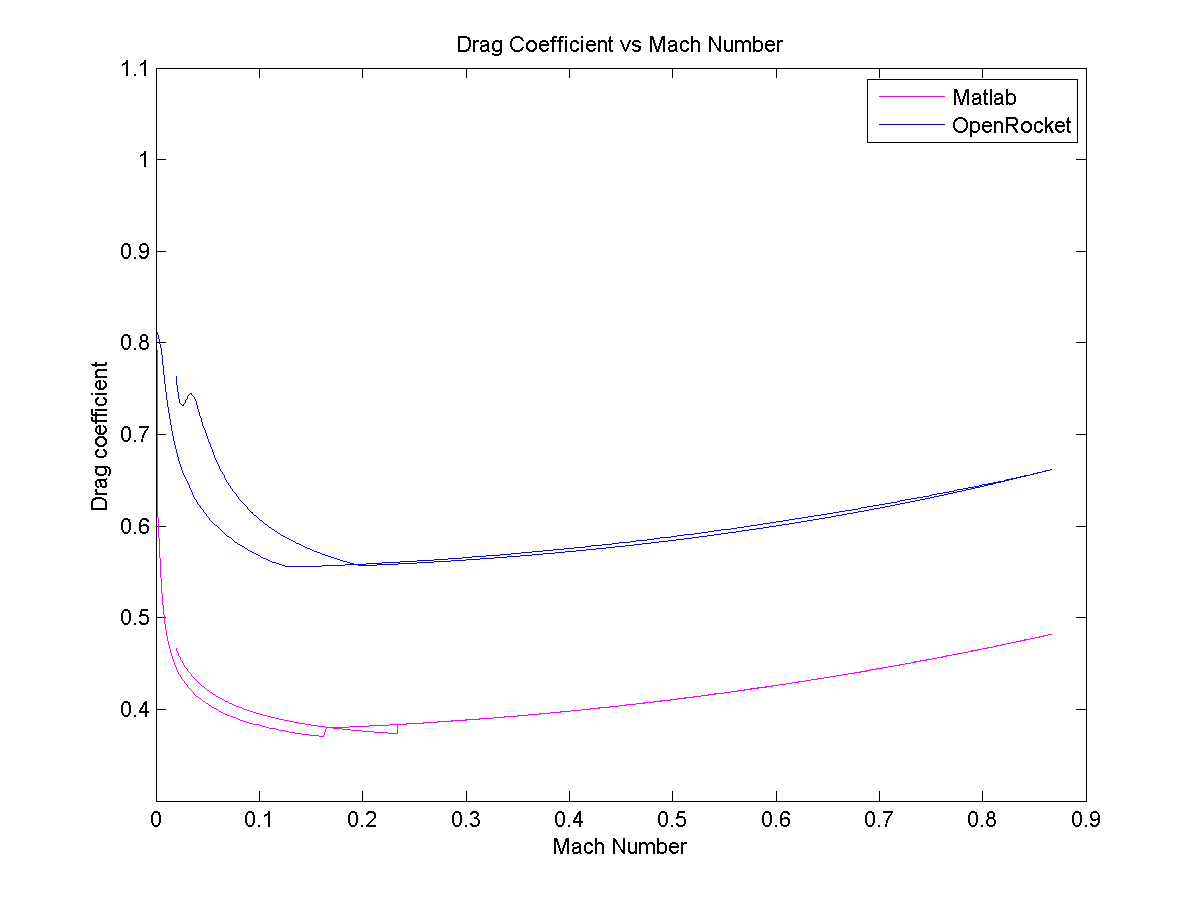
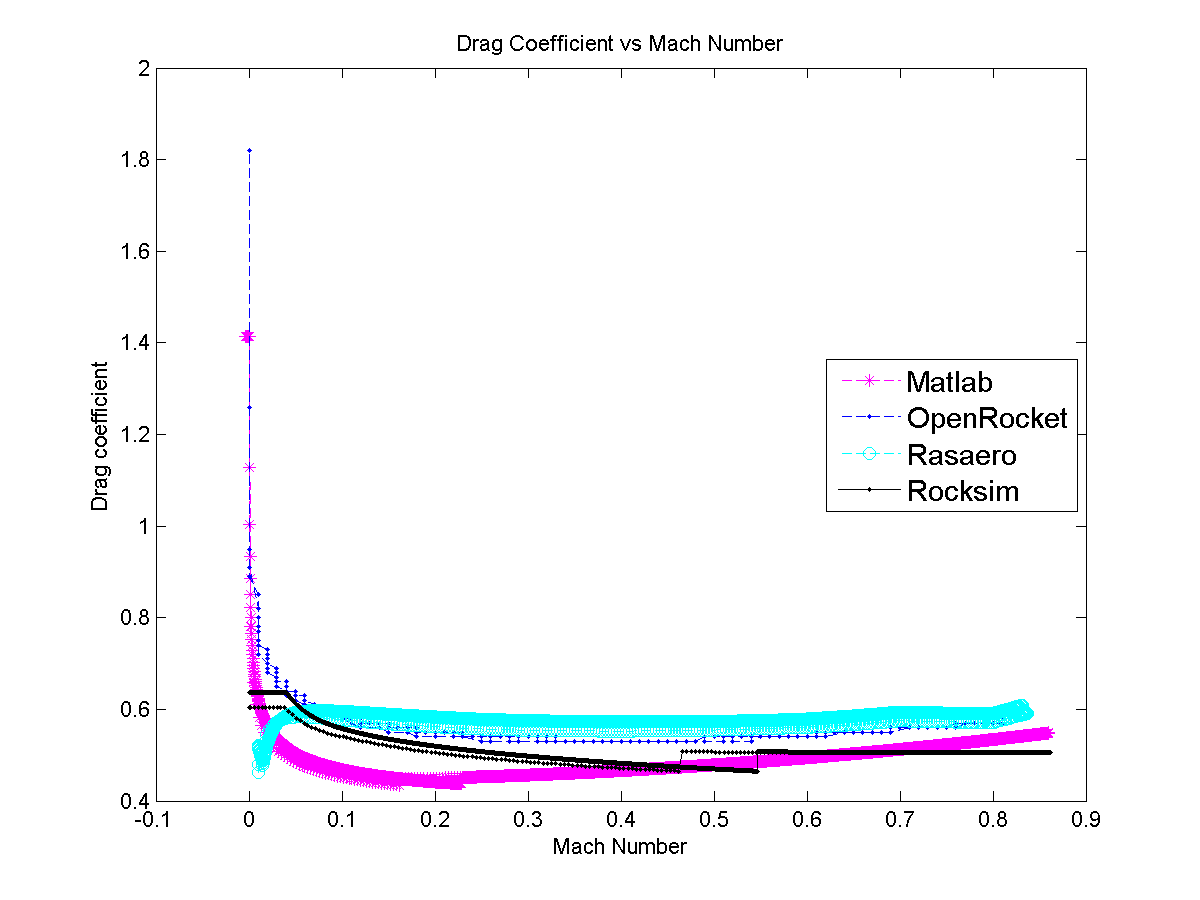
Fixed up all existing error plots to include OpenRocket, RASAero, and RockSim data. Exported plots to images and updated document. Did some research on launch conditions and prepared launch inputs.

diff --git a/functions/data/plotting/plot_error_mass_v_time.m b/functions/data/plotting/plot_error_mass_v_time.m
@@ -1,33 +1,87 @@
+lbf2newton = 4.4482216152605;
+ounce2kilogram = .02834952;
+
+%% Find value index of apogee for each source
+% OpenRocket
+indexmax_openrocket = find(max(openrocket_Altitude) == openrocket_Altitude)
+time_to_apogee_openrocket = openrocket_VarName1(indexmax_openrocket)
+openrocket_altitude_max = openrocket_Altitude(indexmax_openrocket);
+
+% RasAero
+indexmax_rasaero = find(max(rasaero_Altitudeft) == rasaero_Altitudeft)
+time_to_apogee_rasaero = rasaero_Timesec(indexmax_rasaero)
+rasaero_altitude_max = rasaero_Altitudeft(indexmax_rasaero)
+
+% RockSim
+indexmax_Rocksim = find(max(Rocksim_AltitudeFeet) == Rocksim_AltitudeFeet)
+time_to_apogee_Rocksim = Rocksim_Time(indexmax_Rocksim)
+Rocksim_altitude_max = Rocksim_AltitudeFeet(indexmax_Rocksim)
+
 %% Plot drag coef
 subplot(2,1,1)
-plot(tout, thrust, 'm')
-hold on
-plot(tout, openrocket_thrust(1:arraysize), 'b')
+matlab_plot_1 = plot(tout, thrust, 'm--*')
+hold on;
+openrocket_plot_1 = plot(...
+    openrocket_VarName1(1:indexmax_openrocket), ...
+    openrocket_Thrust(1:indexmax_openrocket), ...
+    'b--.'...
+);
+rasaero_plot_1 = plot( ...
+    rasaero_Timesec(1:indexmax_rasaero), ...
+    rasaero_Thrustlb(1:indexmax_rasaero)*lbf2newton, ...
+    'c--o' ...
+);
+rocksim_plot_1 = plot( ...
+    Rocksim_Time(1:indexmax_Rocksim), ...
+    Rocksim_yThrustN(1:indexmax_Rocksim), ...
+    'k- .' ...
+);
 hold off
+
+h_legend = legend(...
+    [matlab_plot_1, openrocket_plot_1, rasaero_plot_1, rocksim_plot_1],...
+    'Matlab','OpenRocket','Rasaero','Rocksim', ...
+    'location', 'northeast' ...
+);
+set(h_legend,'FontSize',14);
 
 clear title xlabel ylabel
 title('Thrust vs Time');
 xlabel('Thrust (N)');
 ylabel('Time (s)');
-legend('Matlab','OpenRocket')
 
 subplot(2,1,2)
-plot(tout, mass, 'm')
-hold on
-plot(tout, openrocket_mass(1:arraysize), 'b')
+matlab_plot_2 = plot(tout, mass, 'm--*')
+hold on;
+openrocket_plot_2 = plot(...
+    openrocket_VarName1(1:indexmax_openrocket), ...
+    openrocket_Mass(1:indexmax_openrocket)/1000, ...
+    'b--.'...
+);
+
+rocksim_plot_2 = plot( ...
+    Rocksim_Time(1:indexmax_Rocksim), ...
+    Rocksim_MassOunces(1:indexmax_Rocksim)*ounce2kilogram, ...
+    'k- .' ...
+);
 hold off
+
+h_legend = legend(...
+    [matlab_plot_2, openrocket_plot_2, rocksim_plot_2],...
+    'Matlab','OpenRocket','Rocksim', ...
+    'location', 'northeast' ...
+);
+set(h_legend,'FontSize',14);
 
 clear title xlabel ylabel
 title('Mass vs Time');
 xlabel('Mass (kg)');
 ylabel('Time (s)');
-legend('Matlab','OpenRocket')
-
 
 %% Conditionally save the plot
 if exist('saveplots')
     if saveplots
-        saveas(gcf, '../documentation/images/plots/error_mass_v_time_plot.png');
+        saveas(gcf, 'documentation/images/plots/error_mass_v_time_plot.png');
         export_fig error_drag_plot.png -m2
     end
 end

diff --git a/functions/data/plotting/plot_error_mach_v_time.m b/functions/data/plotting/plot_error_mach_v_time.m
@@ -1,38 +1,32 @@
-% Define globals
+%% Define globals
 upperbound = 0.9
 lowerbound = 0.8;
 
-
 %% Find value index of apogee for each source
 % OpenRocket
-indexmax_matlab = find(max(mach_number) == mach_number)
+indexmax_matlab = find(max(altitude) == altitude)
 time_to_apogee_matlab = tout(indexmax_matlab)
-matlab_mach_max = mach_number(indexmax_openrocket);
+matlab_mach_max = altitude(indexmax_openrocket);
 
 % OpenRocket
-indexmax_openrocket = find(max(openrocket_Machnumber) == openrocket_Machnumber)
+indexmax_openrocket = find(max(openrocket_Altitude) == openrocket_Altitude)
 time_to_apogee_openrocket = openrocket_VarName1(indexmax_openrocket)
-openrocket_mach_max = openrocket_Machnumber(indexmax_openrocket);
+openrocket_altitude_max = openrocket_Altitude(indexmax_openrocket);
 
 % RasAero
-indexmax_rasaero = find(max(rasaero_Mach) == rasaero_Mach)
+indexmax_rasaero = find(max(rasaero_Altitudeft) == rasaero_Altitudeft)
 time_to_apogee_rasaero = rasaero_Timesec(indexmax_rasaero)
-rasaero_mach_max = rasaero_Mach(indexmax_rasaero)
+rasaero_altitude_max = rasaero_Altitudeft(indexmax_rasaero)
 
 % RockSim
-indexmax_Rocksim = find(max(Rocksim_Machnumber) == Rocksim_Machnumber)
+indexmax_Rocksim = find(max(Rocksim_AltitudeFeet) == Rocksim_AltitudeFeet)
 time_to_apogee_Rocksim = Rocksim_Time(indexmax_Rocksim)
-Rocksim_mach_max = Rocksim_Machnumber(indexmax_Rocksim)
+Rocksim_altitude_max = Rocksim_AltitudeFeet(indexmax_Rocksim)
 
 %% Define shaded region for competition bounds
 x1 = Rocksim_Time(1:indexmax_Rocksim);
 y1 = linspace(upperbound,upperbound,size(Rocksim_Time(1:indexmax_Rocksim),1));
 y2 = linspace(lowerbound,lowerbound,size(Rocksim_Time(1:indexmax_Rocksim),1));
-
-clear title xlabel ylabel
-title('Mach Number vs Time');
-xlabel('Time (s)');
-ylabel('Mach Number');
 
 %% Plot altitude error
 ha = shadedplot(x1, y1, y2, [0.7, 1, 0.7], 'r'); %first area is red
@@ -65,10 +59,16 @@ h_legend = legend(...
 );
 set(h_legend,'FontSize',14);
 
+%% Plot details
+clear title xlabel ylabel
+title('Mach Number vs Time');
+xlabel('Time (s)');
+ylabel('Mach Number');
+
 %% save plot
 if exist('saveplots')
     if saveplots
-        saveas(gcf, '../documentation/images/plots/error_mach_plot.png');
+        saveas(gcf, 'documentation/images/plots/error_mach_plot.png');
         export_fig error_mach_plot.png -m2
     end
 end

diff --git a/functions/data/plotting/plot_error_dragforce_v_mach.m b/functions/data/plotting/plot_error_dragforce_v_mach.m
@@ -1,3 +1,5 @@
+lbf2newton = 4.4482216152605;
+
 %% Find value index of apogee for each source
 % OpenRocket
 indexmax_openrocket = find(max(openrocket_Altitude) == openrocket_Altitude)
@@ -15,21 +17,21 @@ time_to_apogee_Rocksim = Rocksim_Time(indexmax_Rocksim)
 Rocksim_altitude_max = Rocksim_AltitudeFeet(indexmax_Rocksim)
 
 %% Plot drag coef v mach number
-matlab_plot = plot(mach_number, drag_coefficient, 'm--*')
+matlab_plot = plot(mach_number, drag_force, 'm--*')
 hold on
 openrocket_plot = plot(...
     openrocket_Machnumber(1:indexmax_openrocket), ...
-    openrocket_Dragcoefficient(1:indexmax_openrocket), ...
+    openrocket_Dragforce(1:indexmax_openrocket), ...
     'b--.'...
 );
 rasaero_plot = plot( ...
     rasaero_Mach(1:indexmax_rasaero), ...
-    rasaero_CD(1:indexmax_rasaero), ...
+    rasaero_Draglb(1:indexmax_rasaero)*lbf2newton, ...
     'c--o' ...
 );
 rocksim_plot = plot( ...
     Rocksim_Machnumber(1:indexmax_Rocksim), ...
-    Rocksim_Cd(1:indexmax_Rocksim), ...
+    Rocksim_DragforceN(1:indexmax_Rocksim), ...
     'k- .' ...
 );
 hold off
@@ -37,20 +39,20 @@ hold off
 h_legend = legend(...
     [matlab_plot, openrocket_plot, rasaero_plot, rocksim_plot],...
     'Matlab','OpenRocket','Rasaero','Rocksim', ...
-    'location', 'east' ...
+    'location', 'southeast' ...
 );
 set(h_legend,'FontSize',14);
 
 %% Graph Details
 clear title xlabel ylabel
-title('Drag Coefficient vs Mach Number');
+title('Drag Force vs Mach Number');
 xlabel('Mach Number');
-ylabel('Drag coefficient');
+ylabel('Drag Force (N)');
 
 %% save plot
 if exist('saveplots')
     if saveplots
-        saveas(gcf, 'documentation/images/plots/error_dragcoef_v_mach_plot.png');
-        export_fig error_dragcoef_v_mach_plot.png -m2
+        saveas(gcf, 'documentation/images/plots/error_dragforce_plot.png');
+        export_fig error_dragforce_plot.png -m2
     end
 end

diff --git a/functions/data/plotting/plot_error_coeffrictiondrag_mach.m b/functions/data/plotting/plot_error_coeffrictiondrag_mach.m
@@ -1,8 +1,8 @@
 %% Plot drag coef
-plot(mach_number_trimmed, coef_drag_skin_friction, 'm')
+plot(mach_number, coef_drag_skin_friction, 'm--*')
 
 hold on
-plot(mach_number_trimmed, openrocket_drag_friction_coef(1:arraysize), 'b')
+plot(openrocket_Machnumber, openrocket_Frictiondragcoefficient, 'b--')
 hold off
 
 clear title xlabel ylabel
@@ -14,7 +14,7 @@ legend('Matlab','OpenRocket')
 %% Conditionally save the plot
 if exist('saveplots')
     if saveplots
-        saveas(gcf, '../documentation/images/plots/error_friction_drag_plot.png');
-        export_fig error_drag_plot.png -m2
+        saveas(gcf, 'documentation/images/plots/error_coeffriction_drag_plot.png');
+        export_fig error_coeffriction_drag_plot.png -m2
     end
 end

diff --git a/functions/data/plotting/plot_error_altitude_v_time.m b/functions/data/plotting/plot_error_altitude_v_time.m
@@ -70,7 +70,7 @@ ylabel('Altitude (m)');
 
 %% provide imperial units on right vertical axis
 ylimit = [0,12500/meter2feet]; % ylimits in meters
-n=9; % how many tickmarks
+n=11; % how many tickmarks
 ytic = linspace(ylimit(1),ylimit(2),n); 
 ax1 = gca;
 set(ax1,'ylim', ylimit, 'ytick', ytic);
@@ -86,7 +86,7 @@ ylabel('in feet');
 %% conditionally save the plot
 if exist('saveplots')
     if saveplots
-        saveas(gcf, '../documentation/images/plots/error_altitude_plot.png');
+        saveas(gcf, 'documentation/images/plots/error_altitude_plot.png');
         export_fig error_altitude_plot.png -m2
     end
 end

diff --git a/functions/data/import_arcturus_pressure_sensor.m b/functions/data/import_arcturus_pressure_sensor.m
@@ -1,8 +1,7 @@
 %% Import data from spreadsheet
 % Script for importing data from the following spreadsheet:
 %
-%    Workbook: C:\Users\scorpii\Documents\Space\Rocketry\Avionics\Arcturus
-%    Flight Analysis\Arcturus Flight Data\ArcturusFlightData.xlsx
+%    Workbook: ArcturusFlightData.xlsx
 %    Worksheet: CA BMP Sensor (PP)
 %
 % To extend the code for use with different selected data or a different

diff --git a/functions/data/plotting/plot_error_stability_margin.m b/functions/data/plotting/plot_error_stability_margin.m
@@ -68,7 +68,7 @@ ylabel('Calibers');
 %% conditionally save the plot
 if exist('saveplots')
     if saveplots
-        saveas(gcf, '../documentation/images/plots/error_stability_calibers_plot.png');
+        saveas(gcf, 'documentation/images/plots/error_stability_calibers_plot.png');
         export_fig error_altitude_plot.png -m2
     end
 end

diff --git a/functions/data/plotting/plot_error.m b/functions/data/plotting/plot_error.m
@@ -2,6 +2,6 @@ figure; plot_error_altitude_v_time;
 figure; plot_error_mach_v_time;
 figure; plot_error_stability_margin;
 figure; plot_error_coeffrictiondrag_mach;
-figure; plot_error_mass_v_time;
-figure; plot_error_drag_mach;
+figure; plot_error_dragforce_v_mach;
 figure; plot_error_dragcoef_v_mach;
+figure; plot_error_mass_v_time;

diff --git a/functions/data/plotting/plot_openrocket_validation.m b/functions/data/plotting/plot_openrocket_validation.m
@@ -55,7 +55,7 @@ if confirm('Plot error data?')
     figure;
     plot_error_mass_v_time;
     figure; 
-    plot_error_drag_mach;
+    plot_error_dragforce_v_mach;
     figure;
     plot_error_dragcoef_v_mach;
     figure;

diff --git a/documentation/simulation_results.md b/documentation/simulation_results.md
@@ -1,24 +1,85 @@
-# Simulation Results
+# Simulation Execution
 
 ## Simulation Configuration
 
-The following model was executed
+For all tests, the following conditions were used, based on historical data for June 25th, 2015 at 12:00PM (noon) near Green River, Utah [@forecastio].
+
+| Date       | Elevation             | Ground Pressure | Ground Temperature      | Wind Speed         |
+| ---        | ---                   | ---             | ---                     | ---                |
+| 2015/06/15 | 4,227.92 ft (1,289 m) | 101300 Pa       | 298.15 K (25 $^\circ$C) | 6 km/h (1.6 m/s)   |
+| 2014/06/15 | 4,227.92 ft (1,289 m) | 100700 Pa       | 296.15 K (23 $^\circ$C) | 20 km/h (5.56 m/s) |
+| 2013/06/15 | 4,227.92 ft (1,289 m) | 101000 Pa       | 299.15 K (26 $^\circ$C) | 10 km/h (2.78 m/s) |
+
+\captionof{table}{General Simulation Conditions}
+
+### Best Case
+
+The best case scenario is with no wind, and a 0$^\circ$ launch angle, and the lowest air pressure.
+
+| Wind Speed | Ground Pressure | Ground Temperature      | Launch Guide Angle |
+| ---        | ---             | ---                     | ---                |
+| 0 m/s      | 101000 kPa      | 287.15 K (15 $^\circ$C) | 0$^\circ$         |
+
+\captionof{table}{Best Case Simulation Conditions}
+
+### Worst Case
+
+The worst case scenario, is the maximum wind condition permitted for launch by the competition, and a launch guide angle, and the highest pressure.
+
+| Wind Speed | Ground Pressure | Ground Temperature      | Launch Guide Angle |
+| ---        | ---             | ---                     | ---                |
+| 8.33 m/s   | 101325 kPa      | 288.15 K (15 $^\circ$C) | 5$^\circ$         |
+
+\captionof{table}{Worst Case Simulation Conditions}
+
+\clearpage
+
+## Simulation Software
+
+The following models were executed.
+
+### OpenRocket
+
+### RockSim
+
+### RASAero
+
+\clearpage
+
+### Matlab
+
+#### Matlab Models
 
 [vertical_model_test]: images/vertical_model.png "" 
 ![Vertical Model in Simulink, angle of attack less than 5 degrees \label{vertical_model_test_label}][vertical_model_test] 
 
+[full_model_test]: images/rocket_model.png "" 
+![Full Model in Simulink, angle of attack less than 15 degrees \label{full_model_test_label}][full_model_test] 
+
+\clearpage
+
 ## Observations
+
+\clearpage
 
 ## Primary Plots
 
 [error_altitude_plot]: images/plots/error_altitude_plot.png "" 
-![Mass, Weight, and Thrust as a Function of Time \label{error_altitude_plot_label}][error_altitude_plot] 
+![Altitude as a Function of Time \label{error_altitude_plot_label}][error_altitude_plot] 
 
 [error_mach_plot]: images/plots/error_mach_plot.png "" 
-![Mass, Weight, and Thrust as a Function of Time \label{error_mach_plot_label}][error_mach_plot] 
+![Mach Number as a Function of Time \label{error_mach_plot_label}][error_mach_plot] 
 
-[error_drag_plot]: images/plots/error_drag_plot.png "" 
-![Mass, Weight, and Thrust as a Function of Time \label{error_drag_plot_label}][error_drag_plot] 
+[error_dragcoef_plot]: images/plots/error_dragcoef_v_mach_plot.png "" 
+![Drag Coefficient as a Function of Mach Number \label{error_dragcoef_v_plot_label}][error_dragcoef_plot] 
+
+[error_dragforce_plot]: images/plots/error_dragforce_plot.png "" 
+![Drag Force as a Function of Mach Number \label{error_dragforce_v_plot_label}][error_dragforce_plot] 
+
+[error_stability_calibers_plot]: images/plots/error_stability_calibers_plot.png "" 
+![Stability (Calibers) as a Function of Time \label{error_stability_calibers_plot_label}][error_stability_calibers_plot] 
+
+\clearpage
 
 ### Additional Plots
 
@@ -43,8 +104,5 @@ The following model was executed
 [atmosphere_plot]: images/plots/atmosphere_plot.png "" 
 ![Altitude, Velocity, and Acceleration as a Function of Time \label{atmosphere_plot_label}][atmosphere_plot] 
 
+
 \clearpage
-
-## Raw Data
-
-See Appendix
